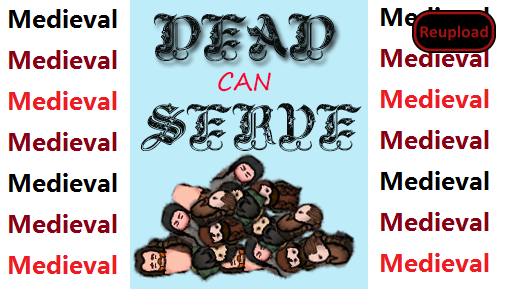
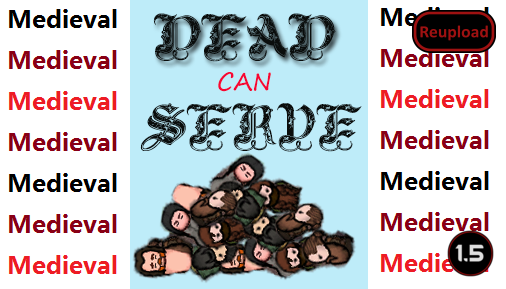
Mod updated for 1.5 and passed autotests

Changed region(s): [[0.8597, 0.7785, 0.9783, 0.9654]]

diff --git a/README.md b/README.md
@@ -41,11 +41,13 @@ https://steamcommunity.com/sharedfiles/filedetails/?id=2018891555
 
 -  See if the the error persists if you just have this mod and its requirements active.
 -  If not, try adding your other mods until it happens again.
--  Post your error-log using https://steamcommunity.com/workshop/filedetails/?id=818773962]HugsLib and command Ctrl+F12
+-  Post your error-log using https://steamcommunity.com/workshop/filedetails/?id=818773962]HugsLib or the standalone https://steamcommunity.com/sharedfiles/filedetails/?id=2873415404]Uploader and command Ctrl+F12
 -  For best support, please use the Discord-channel for error-reporting.
 -  Do not report errors by making a discussion-thread, I get no notification of that.
 -  If you have the solution for a problem, please post it to the GitHub repository.
+-  Use https://github.com/RimSort/RimSort/releases/latest]RimSort to sort your mods
 
 
 
+https://steamcommunity.com/sharedfiles/filedetails/changelog/2520329607]![Image](https://img.shields.io/github/v/release/emipa606/MedievalDeadCanServe?label=latest%20version&style=plastic&color=9f1111&labelColor=black)
 
